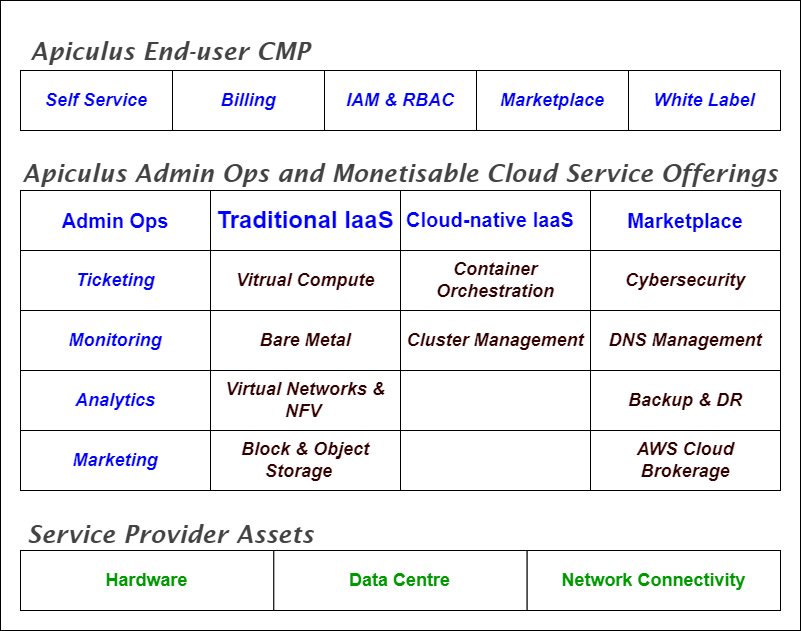
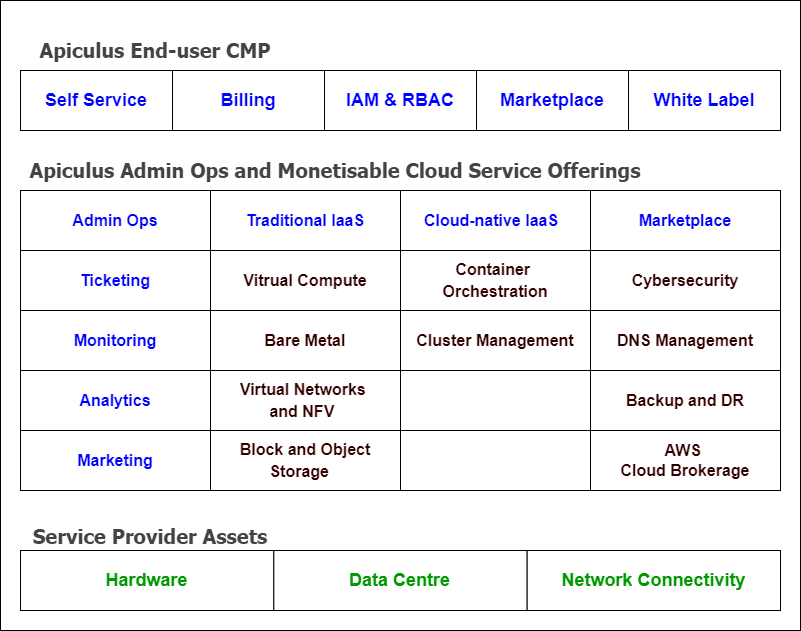
Updates

diff --git a/src/css/custom.css b/src/css/custom.css
@@ -44,7 +44,7 @@ body {
 
 /* Set H1 color to navy and font size to 28px */
 h1 {
-  color: navy;
+  color: #183F7C;
   font-size: 24px;
 }
 
@@ -72,7 +72,7 @@ body {
 
 a {
    /* text-decoration: none;  Removes underline from links */
-    color: #0066cc; /* Default link color */
+    color: #183F7C; /* Default link color */
   /* transition: color 0.3s ease;  Smooth transition for color change */
 
   transition: text-shadow 0.3s ease; /* Smooth transition for glow effect */
@@ -98,24 +98,24 @@ img {
   z-index: 1; /* Base z-index for all images */
 }
 
+
 /* Zoom effect on click */
 img:active {
   transform: scale(1.5); /* Zoom in the image on click */
   cursor: zoom-out; /* Change cursor to zoom-out */
   z-index: 1000; /* Bring zoomed image above all other elements */
-  
-}
+  }
 
 .footer {
   background-color: #708090; /* Replace with your desired color */
 }
 
 .navbar .button--primary {
-  background-color: #003366; /* Custom background color */
+  background-color: #183F7C; /* Custom background color */
   color: white; /* Text color */
   border: none; /* Optional: remove border */
   border-radius: 20px; /* Optional: rounded corners */
-  padding: 8px 16px; /* Optional: padding for better appearance */
+  padding: 6px 10px; /* Optional: padding for better appearance */
   font-weight: bold; /* Optional: make the text bold */
 }
 
@@ -182,8 +182,8 @@ img:active {
 
 /* Default link style */
 .navbar__link {
-  padding: 10px 15px;
-  color: navy;
+  padding: 6px 10px;
+  color: #004080;
   text-decoration: none;
   border: none;
   background: none;
@@ -192,23 +192,23 @@ img:active {
 
 /* When a menu item is active, make it look like a button */
 .navbar__link--active {
-  background-color: #0c1d73;
-  color: white;
-  border: 1px navy;
+  background-color: #D0EAFF;
+  color: #004080;
+  border: 1px D0EAFF;
   border-radius: 35px;
   padding: 5px 10px;
 
 }
 /* Keep the hover color the same as the active state */
 .navbar__link--active:hover {
-  background-color: navy;
-  color: white; /* Ensure the text remains white on hover */
-  border-color: navy;
+  background-color: #D0EAFF;
+  color: #004080; /* Ensure the text remains navy on hover */
+  border-color: #D0EAFF;
 }
 
 
+.DocSearch-Button-Placeholder {
+  font-family: Poppins, sans-serif; /* Replace with your desired font */
+}
 
-
-
-
-
+/* Set background image for the homepage */

diff --git a/docusaurus.config.js b/docusaurus.config.js
@@ -113,20 +113,7 @@ stylesheets: [
           src: 'img/logo.svg',
         },
         items: [
-          {
-        //  to: '/', // Change to the desired link
-         // label: 'Home', // The label of your button
-         position: 'left',
-		 type: 'html',
-		value: `
-            <a href="/" class="navbar__home-icon">
-              <svg xmlns="http://www.w3.org/2000/svg" fill="#000080" viewBox="0 0 20 20" width="35" height="35	">
-  <path fill-rule="evenodd" d="M10.707 1.707a1 1 0 00-1.414 0l-8 8a1 1 0 101.414 1.414L4 10.414V18a2 2 0 002 2h2.586a1 1 0 001-1V14a1 1 0 011-1h2a1 1 0 011 1v5a1 1 0 001 1H14a2 2 0 002-2v-7.586l1.293 1.293a1 1 0 001.414-1.414l-8-8z" clip-rule="evenodd"/>
-</svg>
-            </a>`
-
-		 // className: 'button button--primary', // Add button classes here
-        },
+          
 		  {
             type: 'docSidebar',
             sidebarId: 'sidebar1',
@@ -168,7 +155,7 @@ stylesheets: [
           href: 'https://try.apiculus.io', // Change to the desired link
           label: 'Try Apiculus', // The label of your button
           position: 'right',
-          // className: 'button button--primary', // Add button classes here
+          className: 'button button--primary', // Add button classes here
         },
 		  	  
 		  ],

diff --git a/docs/Administration/ConfiguringSections/ConfiguringRHELInstances.md b/docs/Administration/ConfiguringSections/ConfiguringRHELInstances.md
@@ -23,7 +23,7 @@ Follow these steps to configure RHEL Instances:
 6. Select the **Billing Cycle** to be displayed to the subscribers: **Hourly**, **Monthly**, or **Both**.
 ![Configuring Linux Instances](img/rhel2.png) 
 
-7. You can provision the RHEL Instances to an approval-based system within the **Provisioning** section. Turn on the **Approval Required** toggle button, to offer additional functionalities such as sending custom instructions to end-users upon approval and attaching up to five files, each up to three MB.
+7. You can provision the RHEL Instances to an approval-based system within the **Provisioning** section. To do so, turn on the **Approval Required** toggle button to offer additional functionalities such as sending custom instructions to end-users upon approval and attaching up to five files, each up to three MB.
 
 ![Configuring Linux Instances](img/linux3.png)
 
@@ -36,7 +36,7 @@ Follow these steps to configure RHEL Instances:
 9. Under the **Root Disks** section, click on Availability Zones and enable packs for the designated collection.
 ![Configuring Linux Instances](img/rhel6.png)
 
-10. Under the **App Overlays** section, select all the apps that you want to provide as part of this default service. 
+10. Under the **App Overlays** section, select all the apps that you want to provide as part of the default service to the end-users during the deployment of the RHEL instance.
 ![Configuring Linux Instances](img/rhel7.png)
 
 11. Return to the Default Services, and click **PUBLISH DEFAULT CATALOGUE**.

diff --git a/docs/Administration/ConfiguringSections/ConfiguringVirtualFirewallInstances.md b/docs/Administration/ConfiguringSections/ConfiguringVirtualFirewallInstances.md
@@ -2,13 +2,22 @@
 sidebar_position: 6
 ---
 # Configuring Virtual Firewall Instances
+Apiculus offers Virtual Firewall Instances as integrations with pfSense® and FortiGate VM.
+
+You can monetise the service with the following components:
+- Firewall provider
+- Appliance config
+- Public IPv4
+- Additional IPv4
+- Public Gateway
 
 Follow these steps to configure Virtual Firewall Instances:
 
 1. Navigate to **Services** > **Default Services**.
 2. Under **Networking**, select **Virtual Firewall**.
-3. Turn on the toggle switch at the top to make this service available as part of the default services. This action will enable all associated sections.
-4. Under **Availability Zones**, select the availability zone from which you want to offer the service, then click **Save and Update**.
+![Configuring Linux Instances](img/rhel.png) 
+4. Turn on the toggle switch at the top to make this service available as part of the default services. This action will enable all associated sections.
+5. Under **Availability Zones**, select the availability zone from which you want to offer the service, then click **Save and Update**.
 ![Configuring Virtual Firewall Instances](img/ConfiguringVirtualFirewallInstances1.png)
 
 5. Under the **Billing** section, select the **Billing Options**.

diff --git a/docs/intro.md b/docs/intro.md
@@ -5,8 +5,7 @@ sidebar_position: 1
 
 Apiculus is an end-to-end cloud-as-a-service solution that addresses the technology, business enablement and customer experience needs of regional, domestic and edge cloud service providers. Apiculus presents itself as an all-in-one technology platform that combines cloud service monetisation, infrastructure management and customer life cycle management, and offers an integrated solution for cloud providers in edge markets.
 
-
-	![Welcome](welcome1.png)
+![Welcome](welcome1.png)
 
 Apiculus enables:
 
@@ -16,10 +15,8 @@ Apiculus enables:
 
 ## Stack Components
 Items in <span class="blue">**blue**</span> are Apiculus software capabilities; items in **black** are services and extensions that can be monetised; items in <span class="green">**green**</span> are service provider’s assets.
+![Stack Components](StackComponents.webp)
 
-import DocusaurusSvg from './StackComponents.svg'; 
-
-<DocusaurusSvg />
 
 ## Features and Specifications
 This section covers the following:

diff --git a/docs/Administration/ConfiguringSections/ConfiguringLinuxInstances.md b/docs/Administration/ConfiguringSections/ConfiguringLinuxInstances.md
@@ -38,7 +38,7 @@ Follow these steps to configure Linux Instances:
 
 ![Configuring Linux Instances](img/linux6.png)
 
-10. If you want to offer the apps, click the **App Overlays** section and enable the listed apps.
+10. Under the **App Overlays** section, select all the apps that you want to provide as part of the default service to the end-users during the deployment of the Linux instance.
 
 ![Configuring Linux Instances](img/linux7.png)
 

diff --git a/docs/APIs/apioverview.md b/docs/APIs/apioverview.md
@@ -4,7 +4,7 @@ sidebar_position: 1
 
 # API Overview
 
-Apiculus supports (basic) account and access management using REST API. The details are as follow:
+Apiculus supports (basic) account and access management using REST API. The details are as follows:
 
 ```jsx
 API endpoint URL: https://<api_url>
